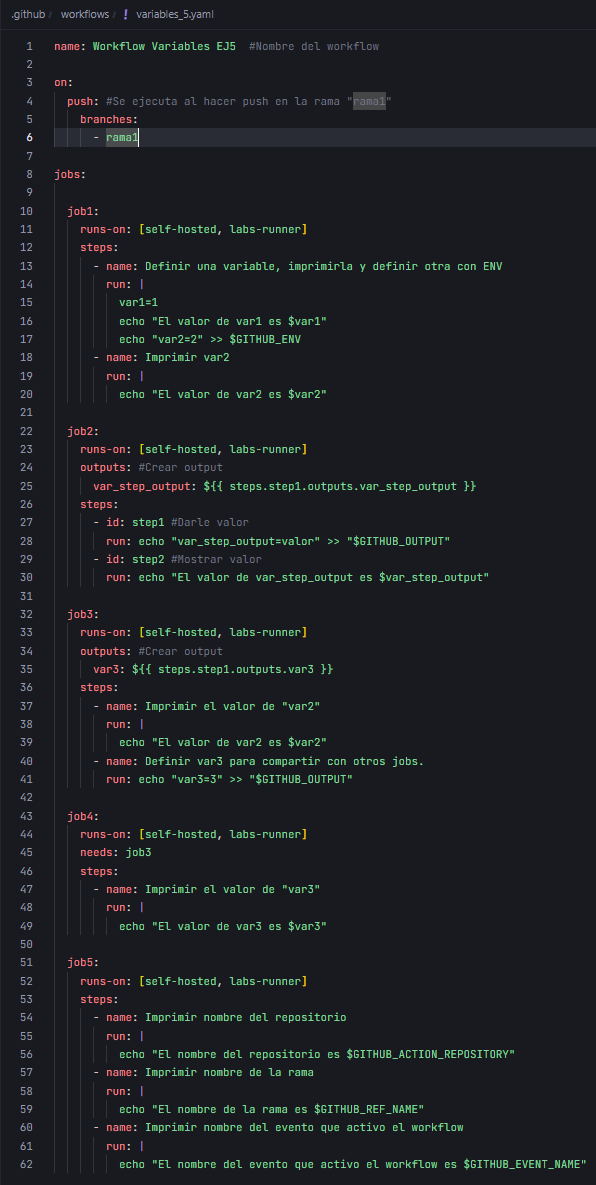
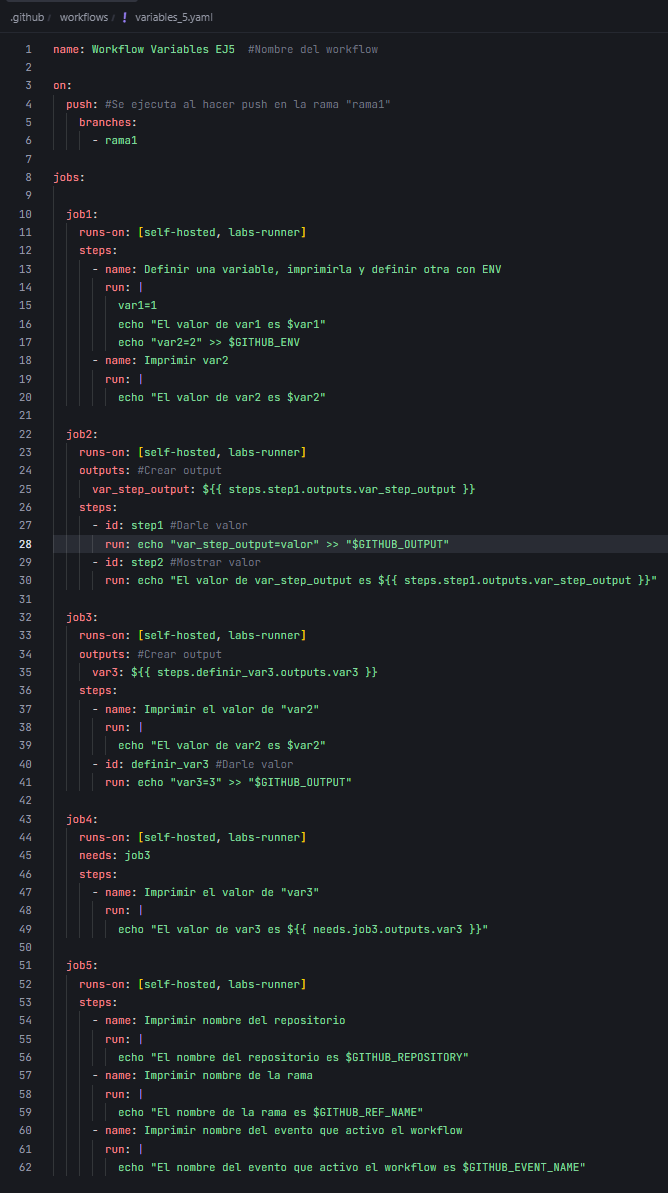
variables ej5 completado

diff --git a/soluciones/variables/ejercicio5.md b/soluciones/variables/ejercicio5.md
@@ -63,12 +63,12 @@ Compartir variables entre jobs:
 job3:
   runs-on: [self-hosted, labs-runner]
   outputs: #Crear output
-    var3: ${{ steps.step1.outputs.var3 }}
+    var3: ${{ steps.definir_var3.outputs.var3 }}
   steps:
     - name: Imprimir el valor de "var2"
       run: |
         echo "El valor de var2 es $var2"
-    - name: Definir var3 para compartir con otros jobs.
+    - id: definir_var3 #Darle valor
       run: echo "var3=3" >> "$GITHUB_OUTPUT"
 ```
 
@@ -96,6 +96,8 @@ job4:
 
 Resultado:
 
+![](../../datos/variables_ej5_foto5.png)
+
 ---
 Usar variables predefinidas de GitHub:
 
@@ -103,3 +105,22 @@ Usar variables predefinidas de GitHub:
   - Nombre del ``repositorio``.
   - Nombre de la ``rama``.
   - Nombre del ``evento`` que activó el workflow.
+
+```yaml
+job5:
+  runs-on: [self-hosted, labs-runner]
+  steps:
+    - name: Imprimir nombre del repositorio
+      run: |
+        echo "El nombre del repositorio es $GITHUB_REPOSITORY"
+    - name: Imprimir nombre de la rama
+      run: |
+        echo "El nombre de la rama es $GITHUB_REF_NAME"
+    - name: Imprimir nombre del evento que activo el workflow
+      run: |
+        echo "El nombre del evento que activo el workflow es $GITHUB_EVENT_NAME"
+```
+
+Resultado:
+
+![](../../datos/variables_ej5_foto6.png)
